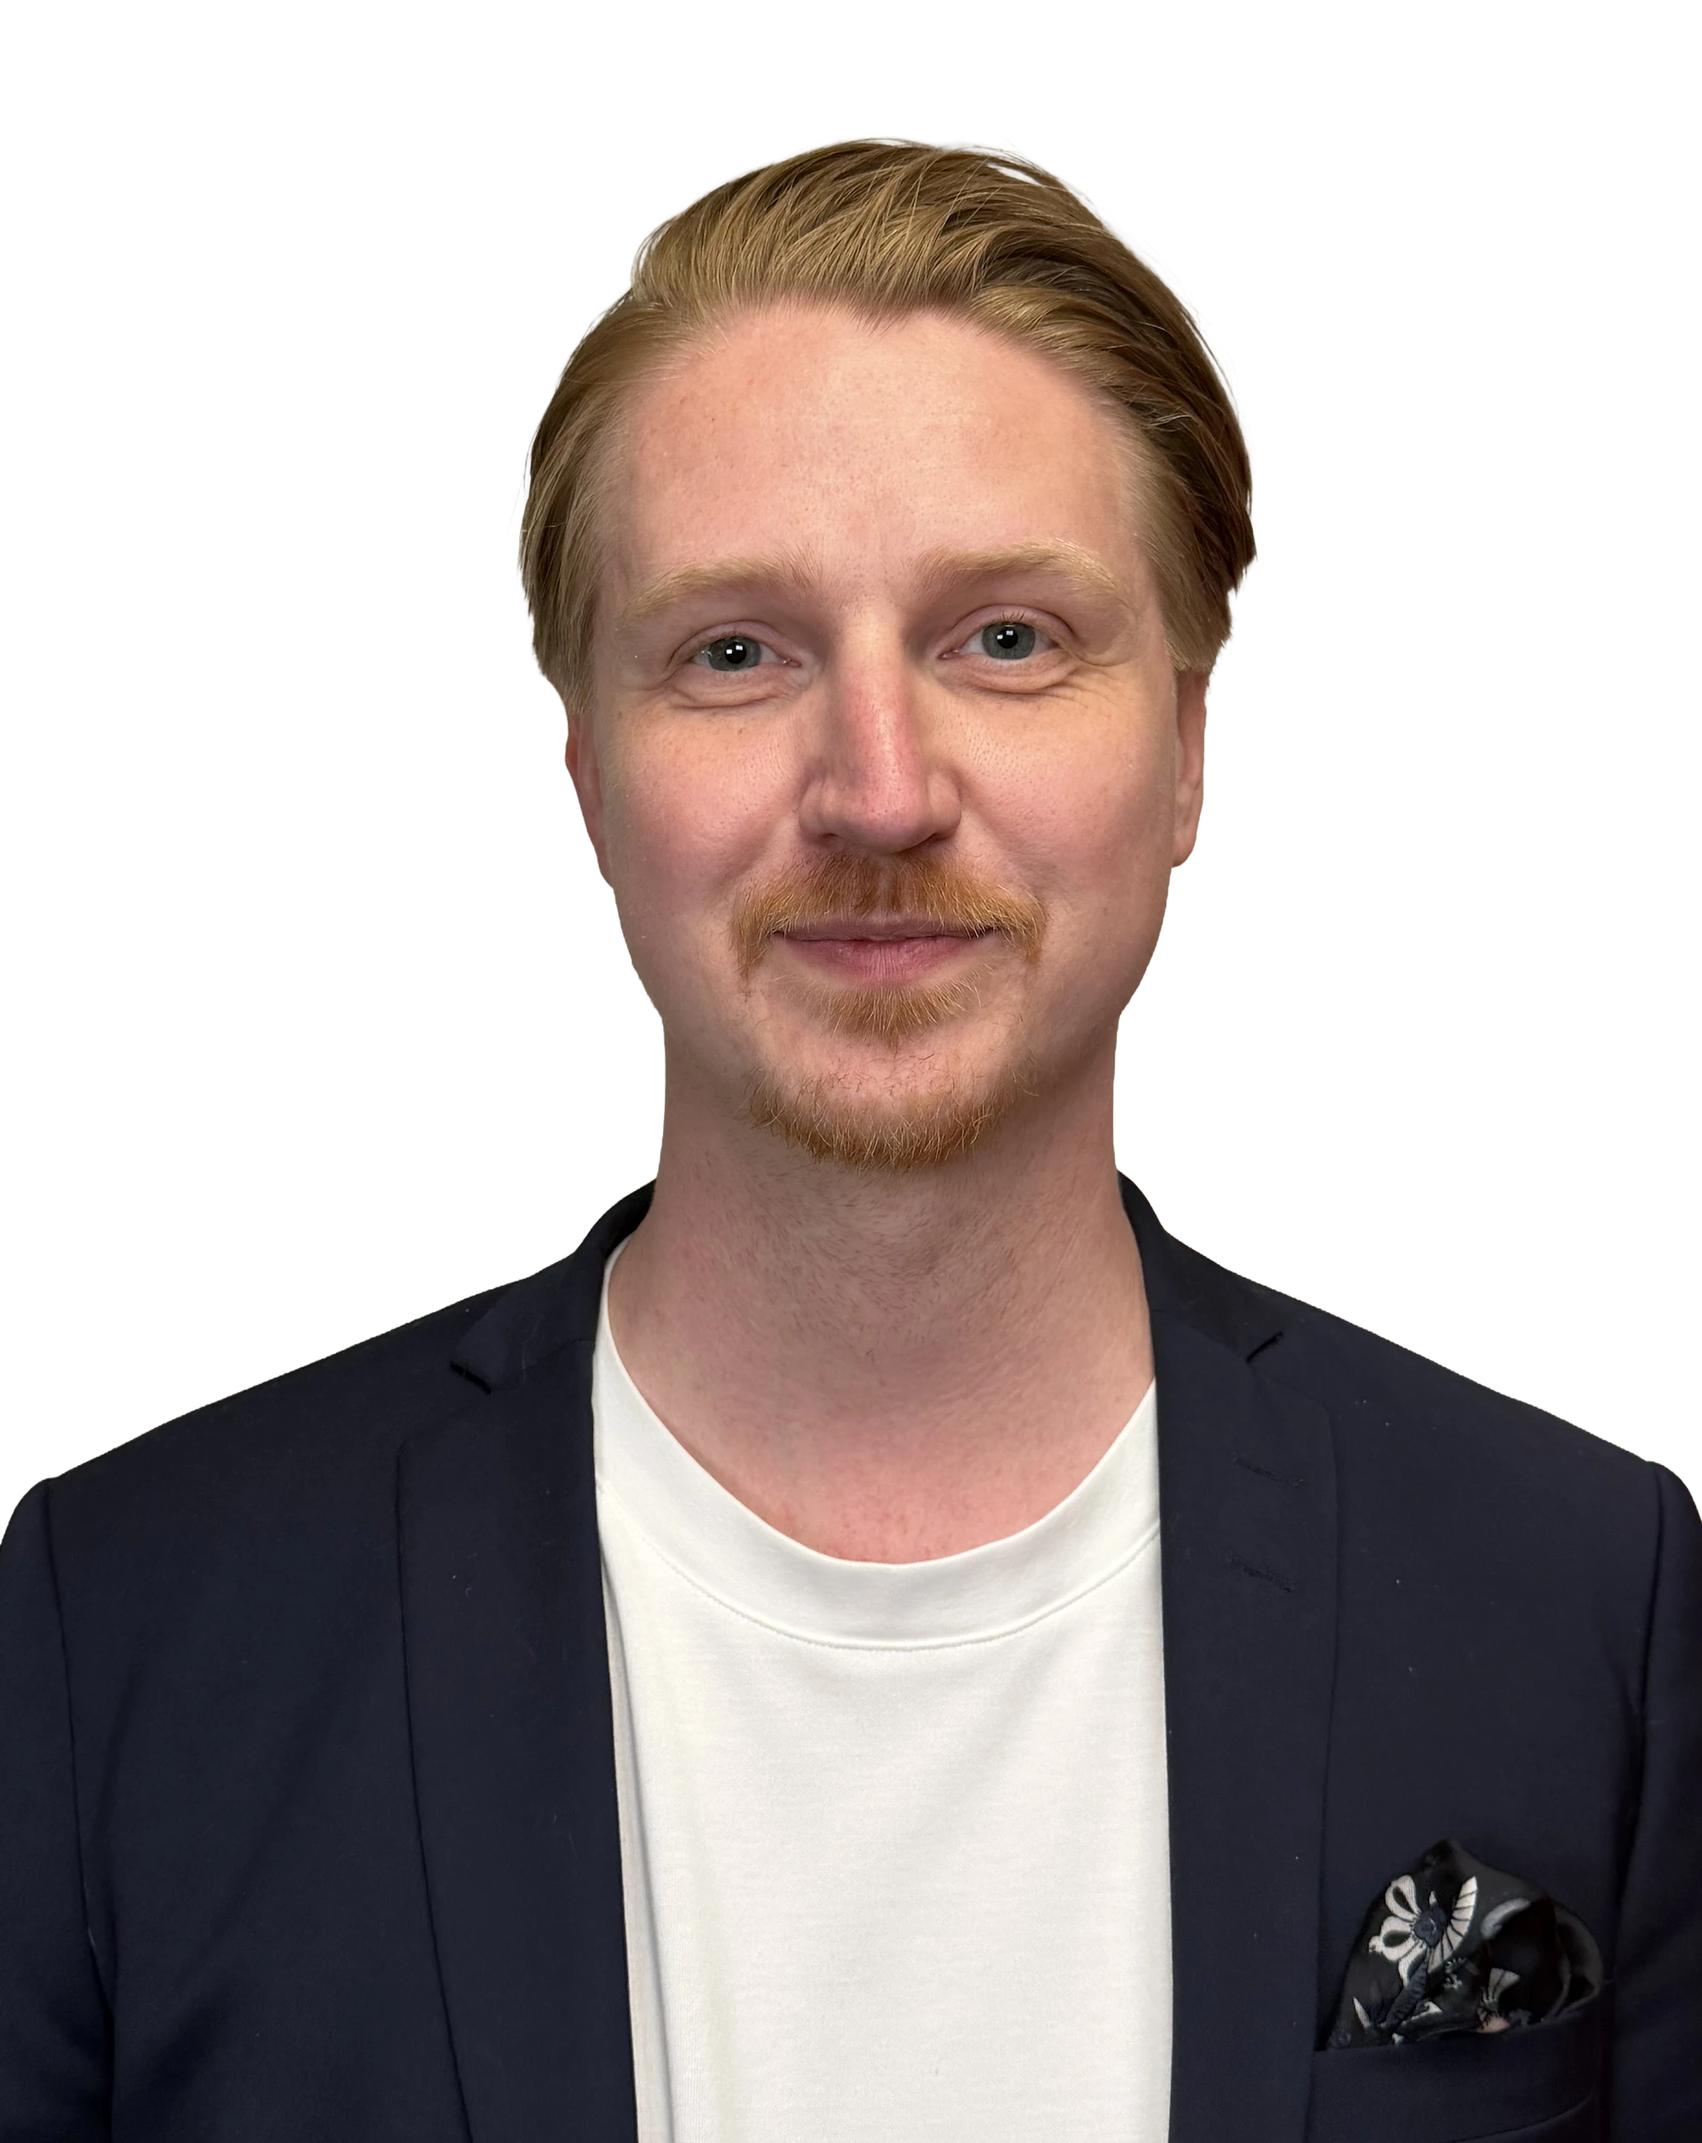
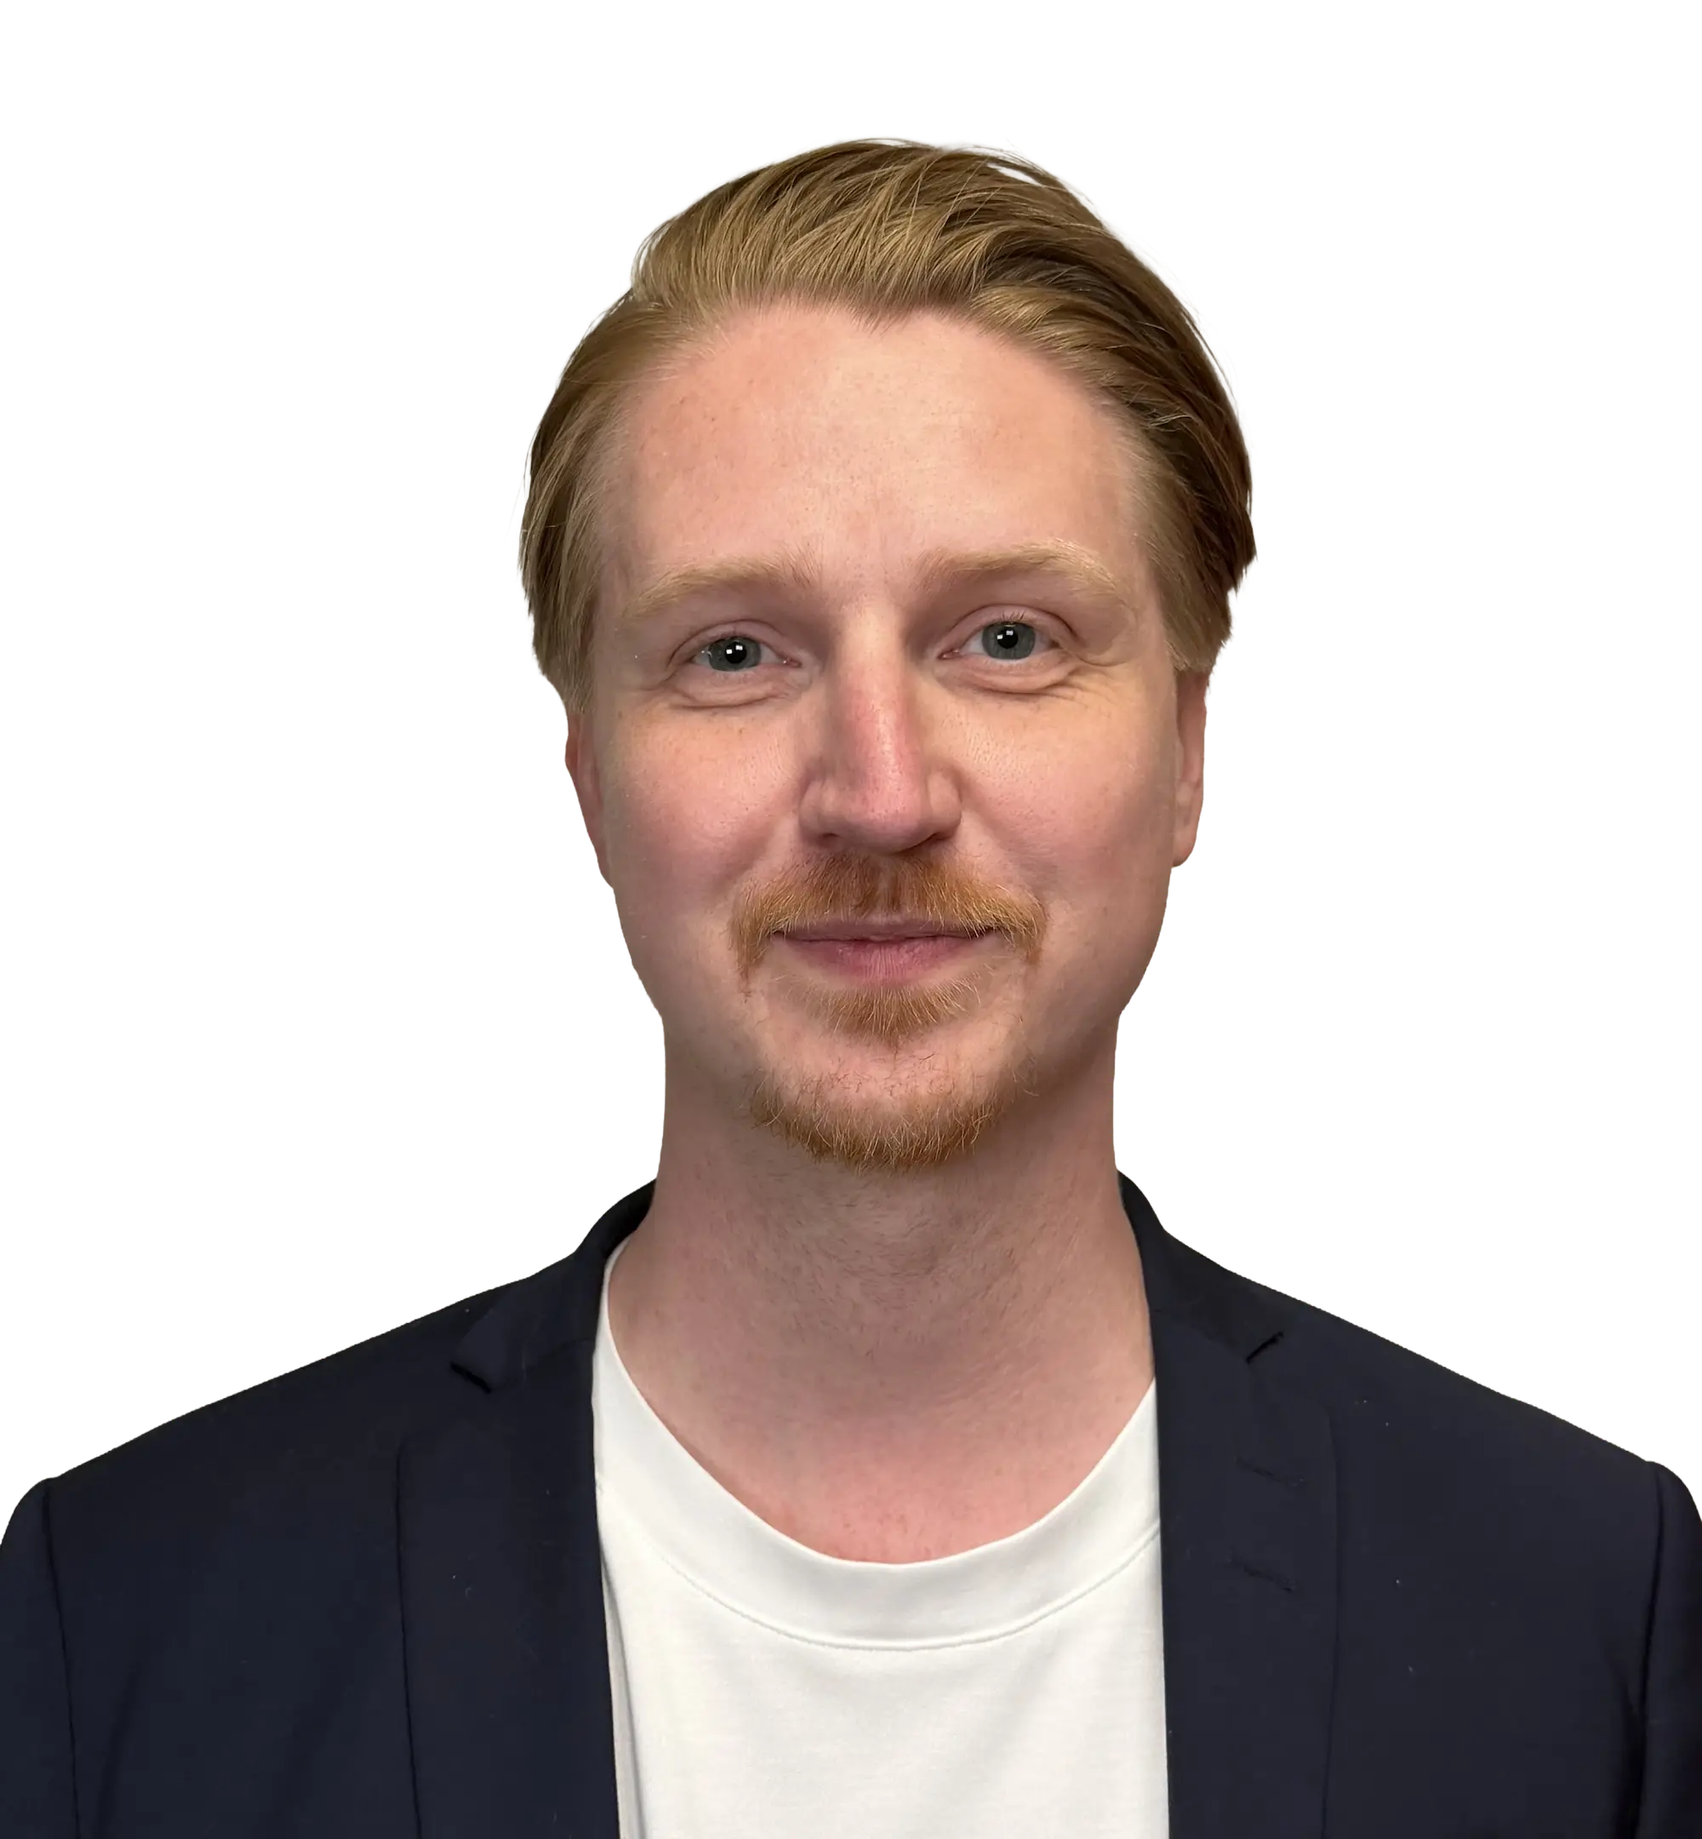
Mindre profilbild

Changed region(s): [[0.0, 0.062, 1.0, 1.0], [0.031, 0.9616, 0.062, 0.9926]]

diff --git a/style.css b/style.css
@@ -132,7 +132,7 @@ h3 {
 .profile-pic {
   width: 300px;
   margin: 0 auto;
-  margin-bottom: 3rem;
+  margin-bottom: 2rem;
 }
 .hero-btn {
   background: transparent;
